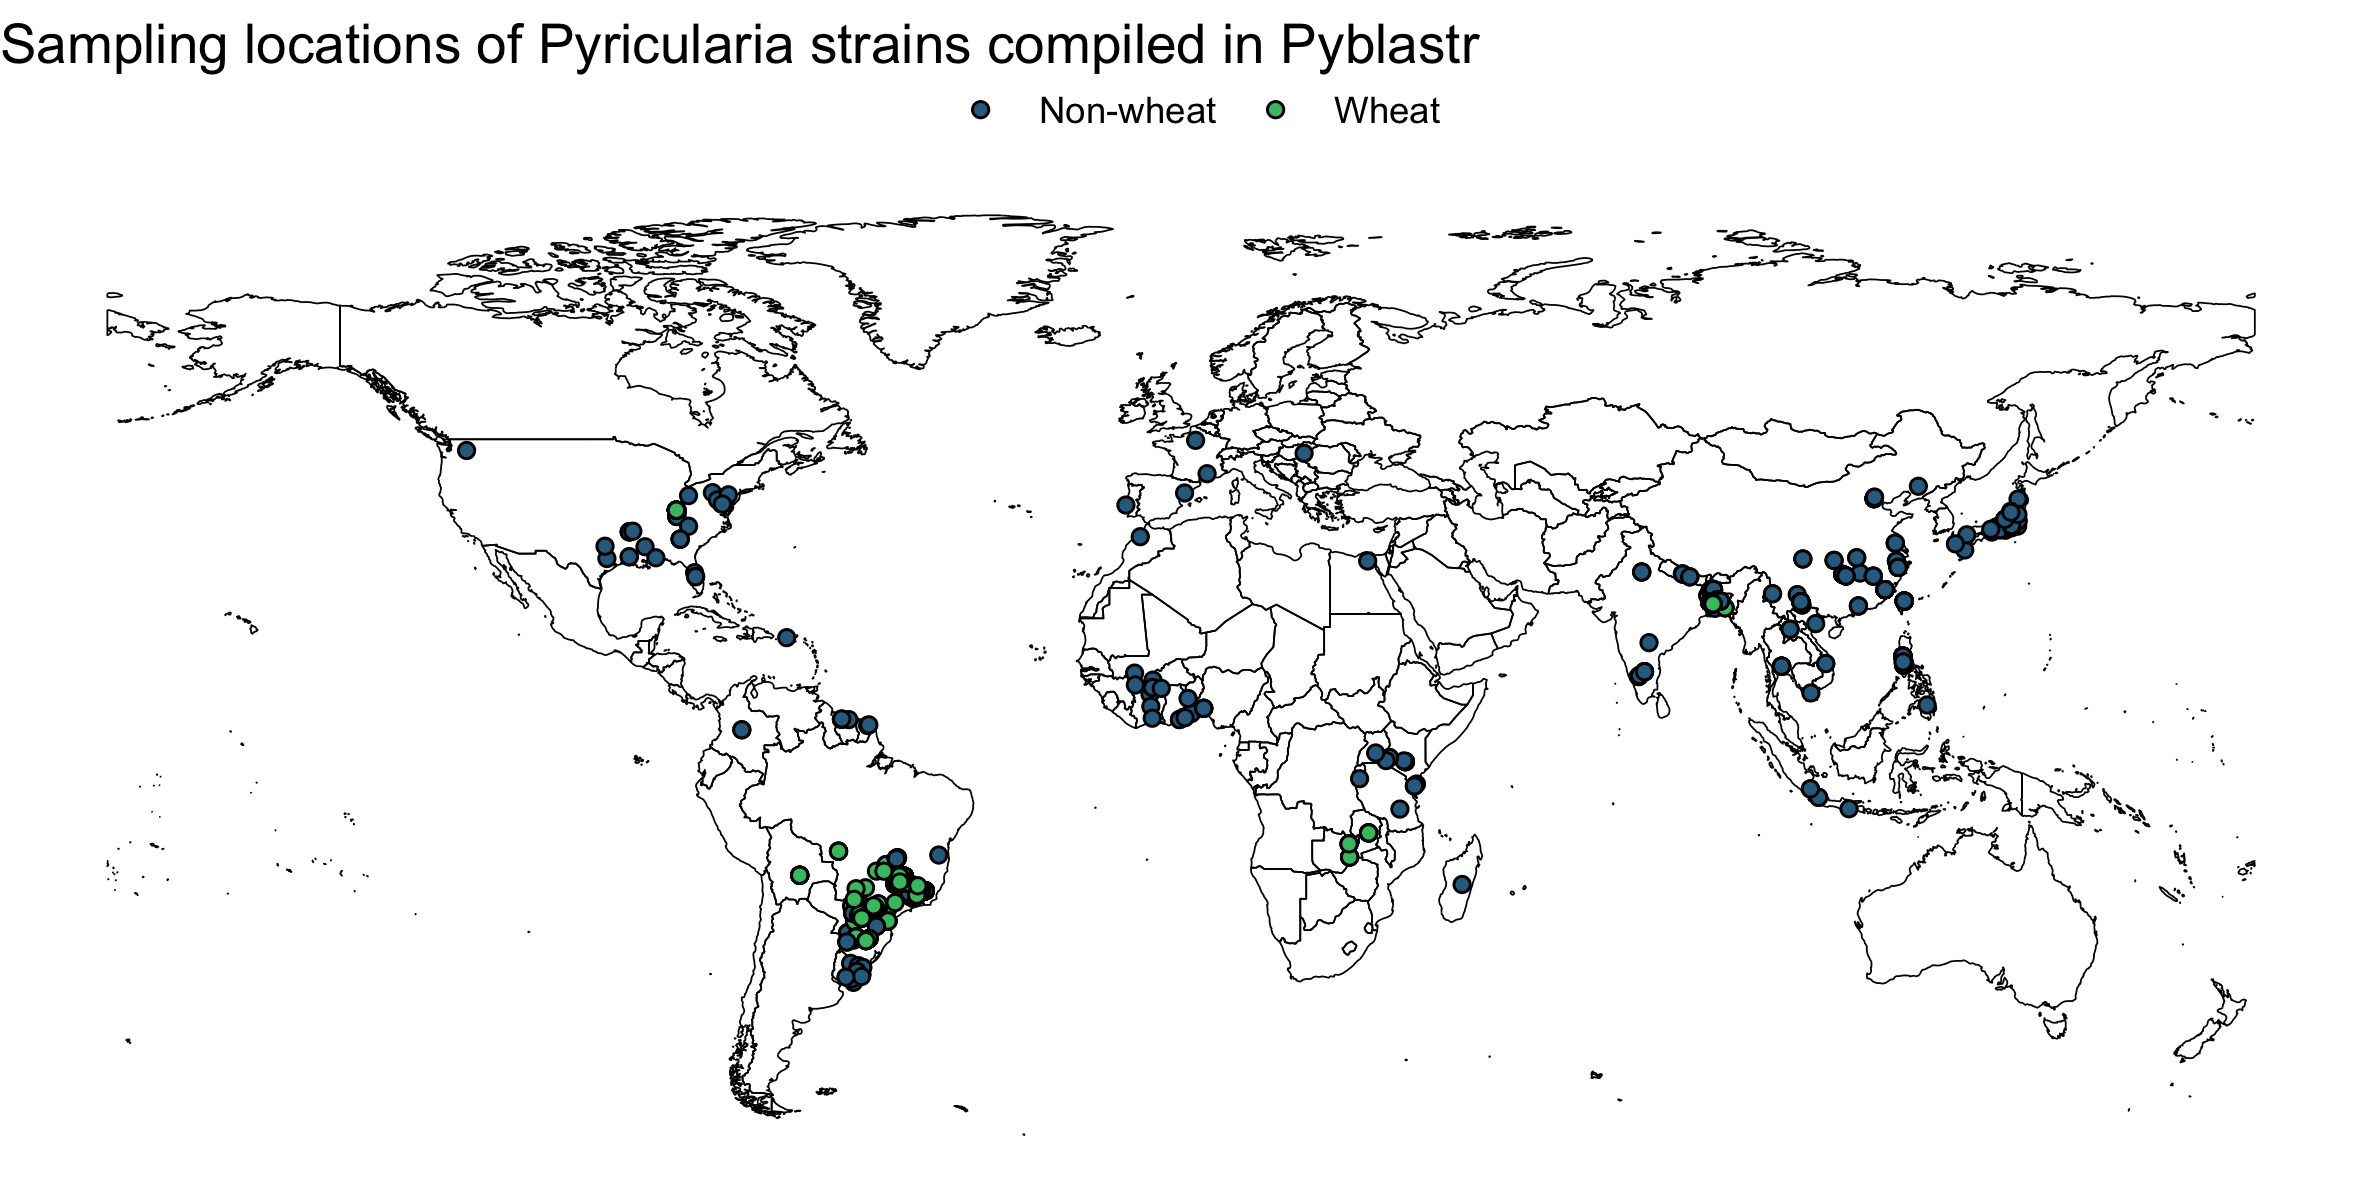
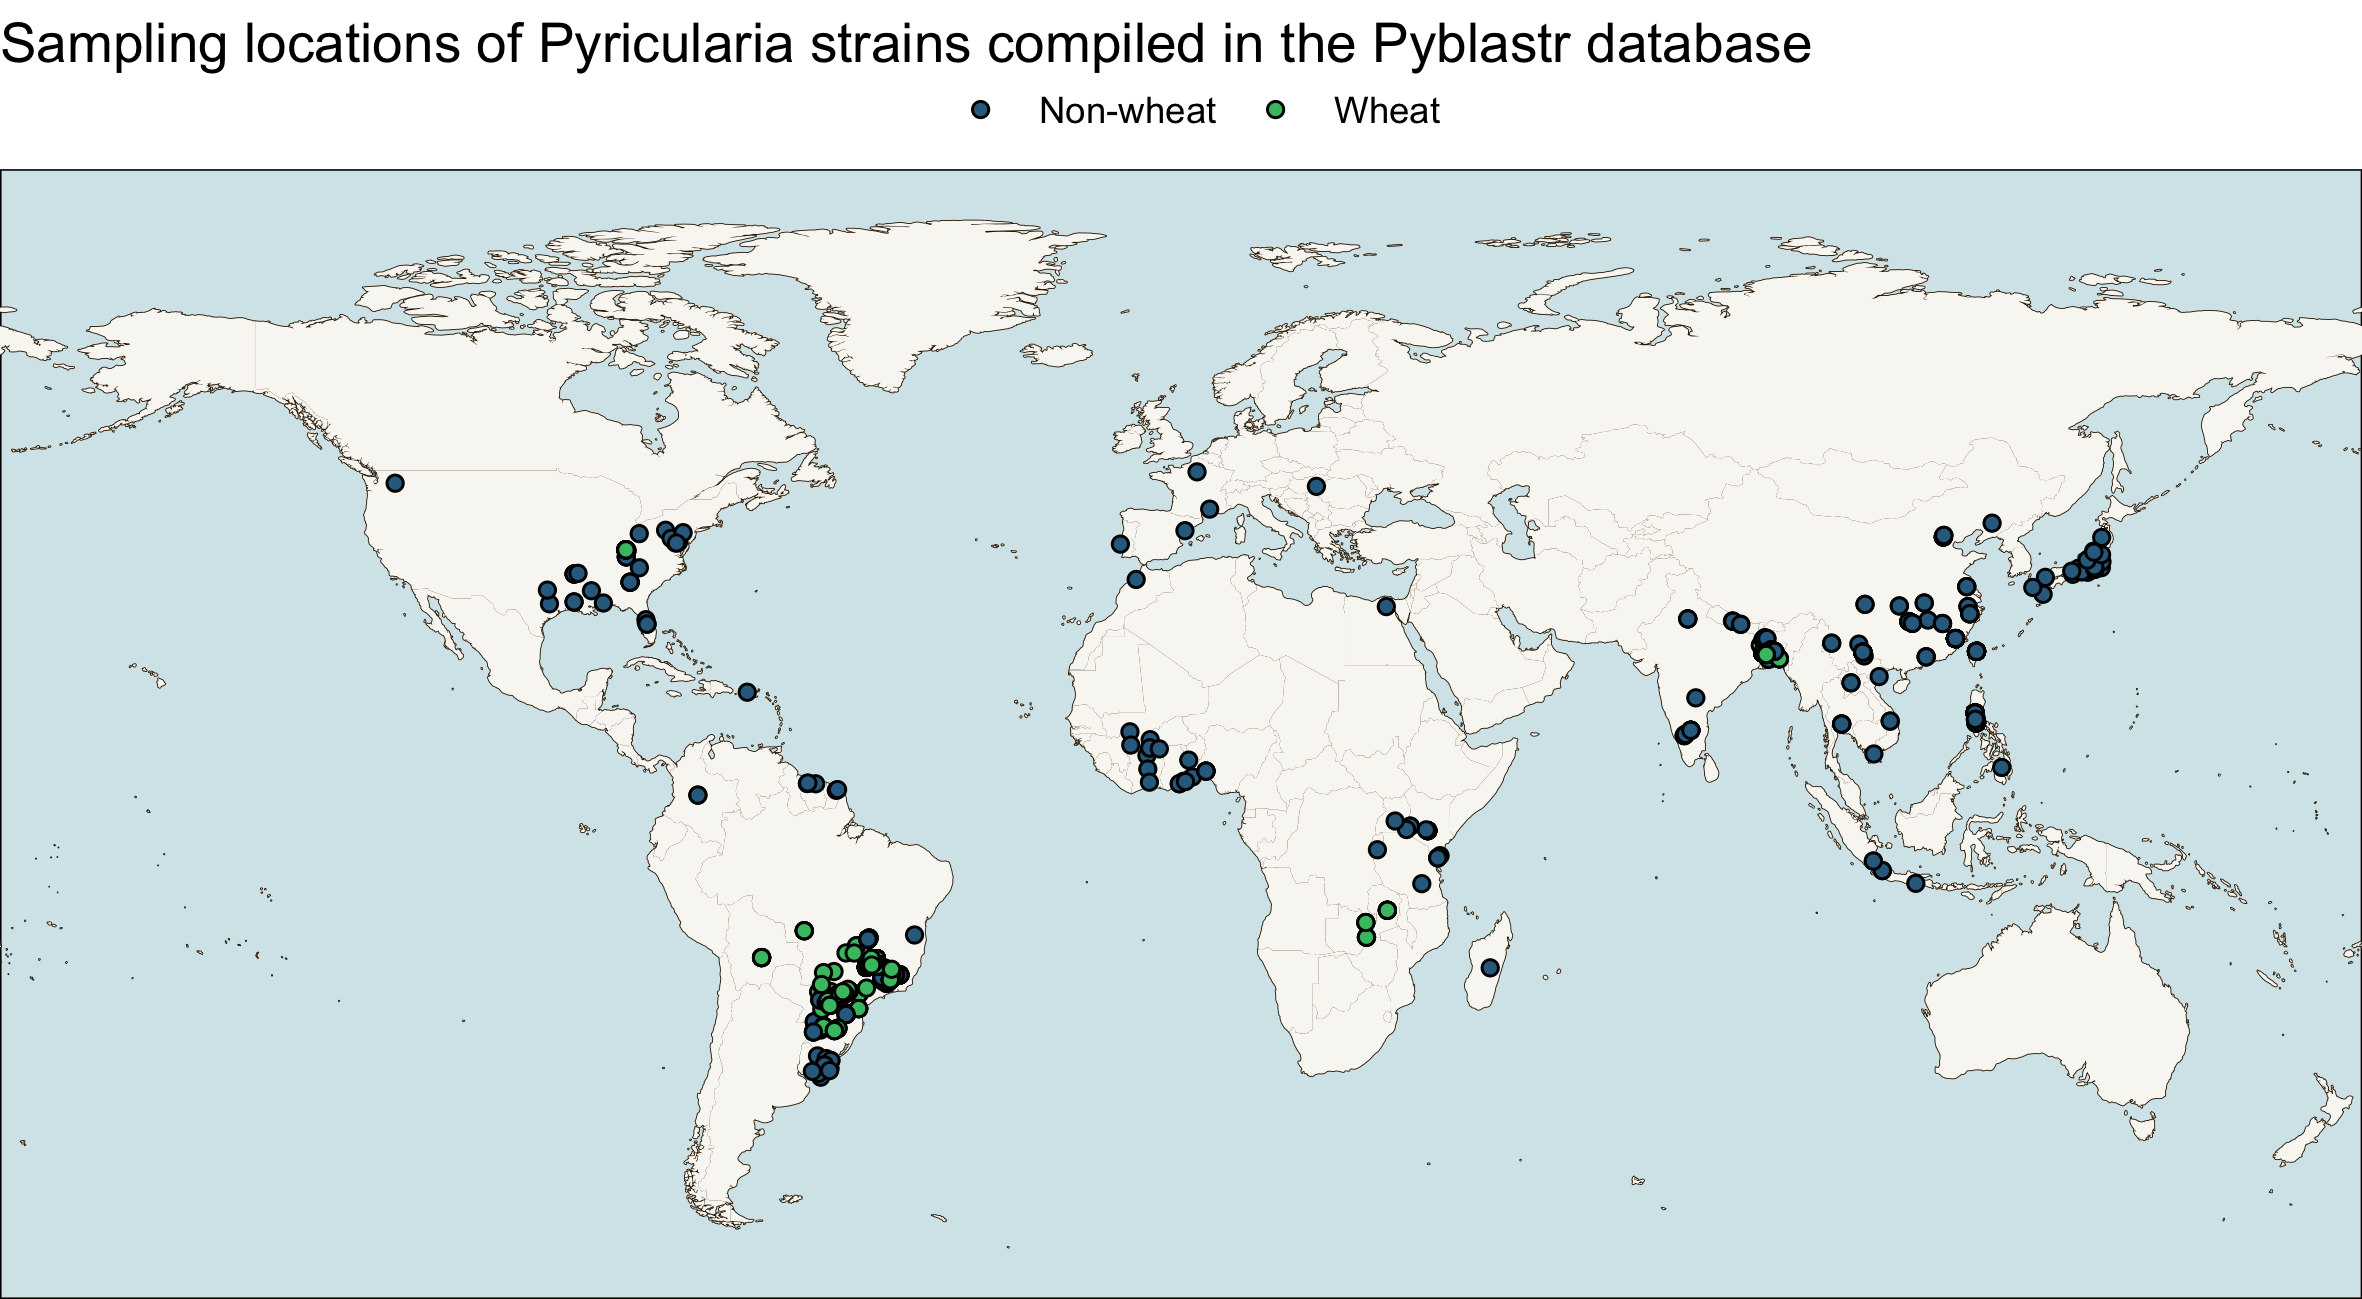
added README and made more changes to map plot

diff --git a/README.md b/README.md
@@ -1,0 +1,5 @@
+# Pyblastr
+
+This fork of the Pyblastr repository gets rid of everything that is needed to build the website and focuses on extracting the underlying data aswell as creating a couple of simple summary statistic and a map plot.
+
+![Sampling locations of Pyricularia strains compiled in the Pyblastr database plotted on a world map](map.png)
